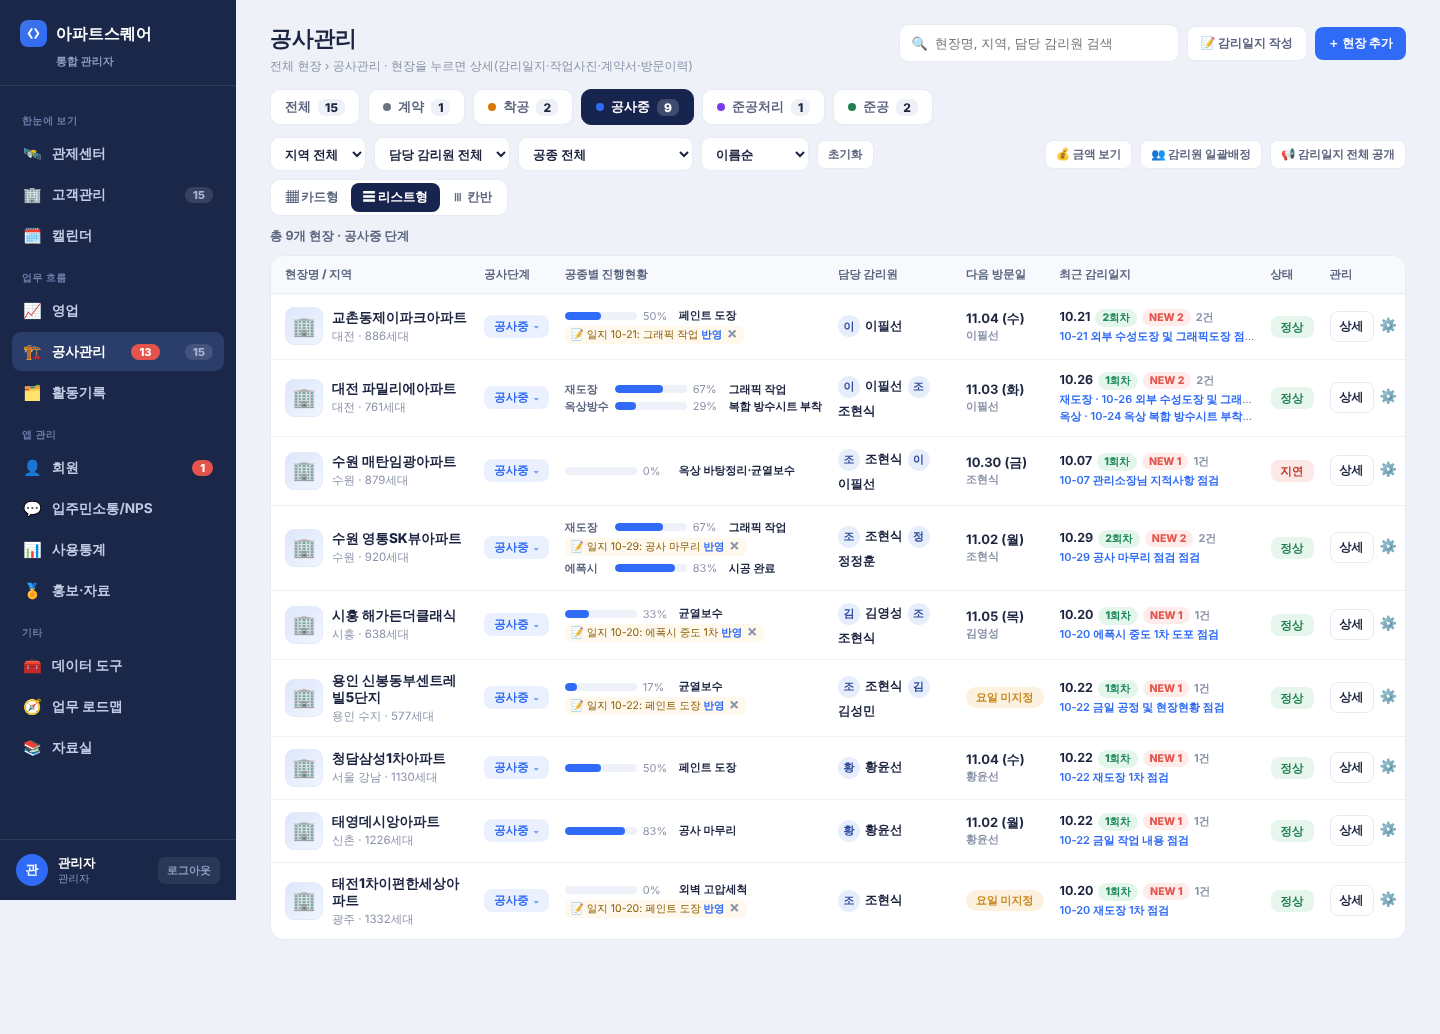
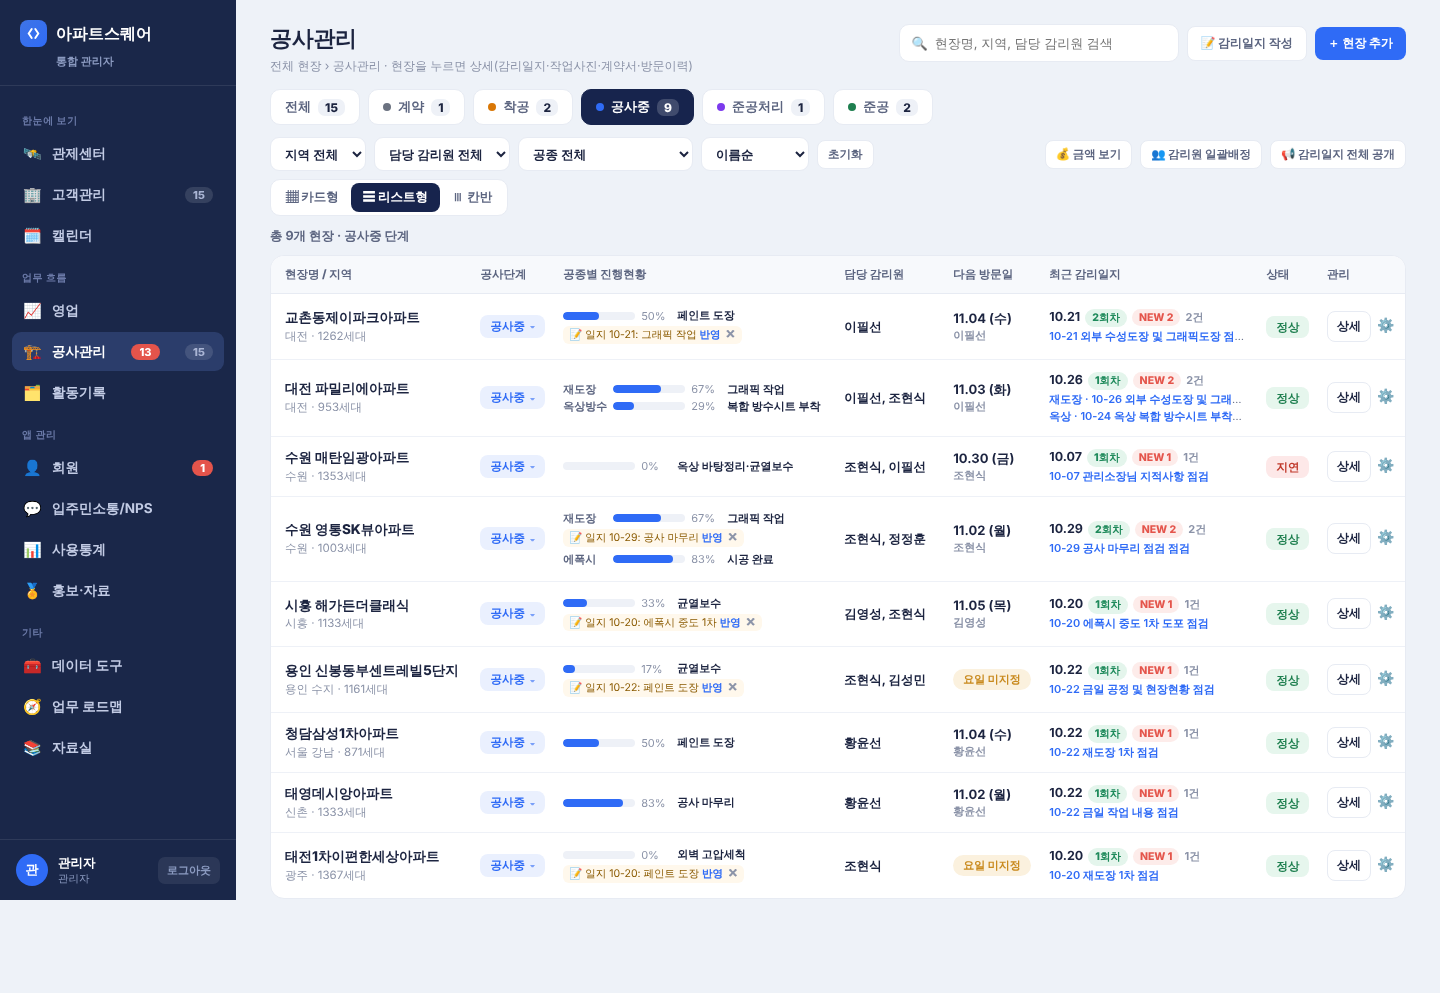
style(console/공사관리): 담당 감리원 이름만 표시, 현장 사진 자리 제거
Claude-Session: https://claude.ai/code/session_01XoqjW9LFmJwsz48PSiTcHw

diff --git a/app/console/index.html b/app/console/index.html
@@ -76,12 +76,12 @@ main{flex:1;min-width:0;padding:24px 34px 70px;max-width:1680px;margin:0 auto}
 .pj-table{min-width:1000px}.pj-table th{background:#f7f9fc;font-size:11.5px;color:var(--mut2);padding:11px 8px;border-bottom:1px solid var(--line);white-space:nowrap}.pj-table td{padding:12px 8px;vertical-align:middle}.pj-table td:first-child,.pj-table th:first-child{padding-left:14px}
 .pj-table .pgrow .bar{width:72px!important}.pj-table .pghint{max-width:200px;white-space:normal;line-height:1.5}
 .pj-table tbody tr{cursor:pointer}.pj-table tbody tr:hover{background:#f6f9ff}
-.pj-site{display:flex;align-items:center;gap:9px;min-width:160px;max-width:215px}
+.pj-site{display:flex;align-items:center;gap:9px;min-width:150px;max-width:230px}
 .pj-thumb{width:38px;height:38px;border-radius:9px;flex:none;display:flex;align-items:center;justify-content:center;font-size:19px;background:linear-gradient(135deg,#dde7fb,#f1f5ff);border:1px solid #e3eaf8}
 .pj-name{font-weight:800;font-size:13.5px;color:var(--ink);line-height:1.3}.pj-name .link{color:var(--ink)}.pj-sub{font-size:11.5px;color:var(--mut);margin-top:2px}
 .pj-stage{display:inline-flex;align-items:center;gap:5px;font-size:11.5px;font-weight:800;padding:4px 10px;border-radius:8px;cursor:pointer;white-space:nowrap}.pj-stage:after{content:'▾';font-size:10px;opacity:.6}
 .pj-step{margin-top:6px}.pj-step .stepbar .sp{height:22px;min-width:26px;font-size:10px;padding:0 5px}
-.pj-aud{display:flex;align-items:center;gap:5px;flex-wrap:wrap;min-width:96px;max-width:150px}.pj-av{width:22px;height:22px;border-radius:50%;background:#e6edfb;color:#2f4c9e;font-size:11px;font-weight:800;display:inline-flex;align-items:center;justify-content:center;flex:none}
+.pj-aud{display:flex;align-items:center;gap:5px;flex-wrap:wrap;min-width:90px;max-width:160px;line-height:1.4}.pj-av{width:22px;height:22px;border-radius:50%;background:#e6edfb;color:#2f4c9e;font-size:11px;font-weight:800;display:inline-flex;align-items:center;justify-content:center;flex:none}
 .pj-aud .nm{font-size:12.5px;font-weight:700;color:var(--ink)}.pj-aud .more{font-size:11px;color:var(--mut)}
 .pj-visit{font-size:13px;font-weight:700;white-space:nowrap}.pj-visit small{display:block;font-size:11px;color:var(--mut);font-weight:600}
 .pj-rep{min-width:150px;max-width:195px}.pj-rep .repsum{max-width:195px}.pj-rep .d{font-size:12.5px;font-weight:700;white-space:nowrap}.pj-rep .d .pill{margin-left:5px;font-size:10.5px;padding:2px 7px}.pj-rep .repsum{margin-top:2px}
@@ -1508,10 +1508,10 @@ function fmtMD(d){ if(!d)return ''; const x=new Date(d+'T00:00:00'); if(isNaN(x)
 /* 상태: 감리 진행(공사중) 단지의 최근 일지 경과일 — 10일 이내 정상 · 21일 이내 주의 · 그 이상/없음 지연 */
 function siteHealth(a){ if(a.status!=='in_progress')return {cls:'na',label:'-',tip:'공사중 단지만 판정'}; const r=lastReportOf(a.id); if(!r)return {cls:'late',label:'일지 없음',tip:'감리일지가 아직 없어요'};
   const d=repDateOf(r); const days=Math.floor((new Date()-new Date(d+'T00:00:00'))/86400000); if(days<=10)return {cls:'ok',label:'정상',tip:`최근 일지 ${days}일 전`}; if(days<=21)return {cls:'warn',label:'주의',tip:`최근 일지 ${days}일 전`}; return {cls:'late',label:'지연',tip:`최근 일지 ${days}일 전`}; }
-function audAvatars(a,max){ const ids=aptAuditors(a); if(!ids.length)return '<span class="pill no">미배정</span>'; const names=ids.map(auditorName).filter(Boolean); max=max||2;
-  return `<div class="pj-aud">${names.slice(0,max).map(n=>`<span class="pj-av">${esc(String(n).slice(0,1))}</span><span class="nm">${esc(n)}</span>`).join('')}${names.length>max?`<span class="more">+${names.length-max}</span>`:''}</div>`; }
+function audAvatars(a,max){ const ids=aptAuditors(a); if(!ids.length)return '<span class="pill no">미배정</span>'; const names=ids.map(auditorName).filter(Boolean); max=max||3;
+  return `<div class="pj-aud" title="${esc(names.join(', '))}"><span class="nm">${esc(names.slice(0,max).join(', '))}</span>${names.length>max?`<span class="more">외 ${names.length-max}</span>`:''}</div>`; }
 function stagePillHtml(a){ const m=stageMeta(stageOf(a)); return `<span class="pj-stage" style="background:${m[3]}1a;color:${m[3]}" title="눌러서 단계 이동" onclick="event.stopPropagation();const n=this.nextElementSibling;n.style.display=n.style.display==='none'?'block':'none'">${esc(m[1])}</span><div class="pj-step" style="display:none" onclick="event.stopPropagation()">${stepBarHtml(a)}</div>`; }
-function thumbHtml(a,big){ const m=stageMeta(stageOf(a)); return `<div class="pj-thumb" style="${a.status==='done'?'filter:grayscale(.6)':''}">🏢</div>`; }
+function thumbHtml(a,big){ return ''; }   // 현장 사진 자리는 쓰지 않음(운영 부담) — 이름·지역만 표시
 function projFilterOpts(){
   const rs=$('pj-region'),as=$('pj-aud'),ms=$('pj-method'); if(!rs||!as||!ms)return;
   const keep=(el,html)=>{ const v=el.value; el.innerHTML=html; if([...el.options].some(o=>o.value===v))el.value=v; };

diff --git a/docs/변경기록.md b/docs/변경기록.md
@@ -33,6 +33,13 @@
 
 ---
 
+## 2026-10-30 · 공사관리 표시 정리 — 담당 감리원 이름만, 사진 자리 제거
+
+- 담당 감리원: 이니셜 아바타(예: "이 이필선") 없이 **이름만** 쉼표로 표시(3명 초과는 '외 N', 마우스 올리면 전체)
+- 리스트·카드의 **현장 사진 자리(건물 아이콘) 제거** — 사진 등록 운영 부담을 두지 않기로
+- 상태(정상·주의·지연) 기준은 그대로: 최근 일지 10일 이내 정상 · 21일 이내 주의 · 그 이상/없음 지연
+- 파일: `app/console/index.html`, 스크린샷 `docs/screenshots/2026-10-30-after/` 갱신
+
 ## 2026-10-30 · 공사관리 화면 디자인 개편 (리스트형·카드형) — 데이터·연동은 그대로
 
 **시안에 맞춰 공사관리 탭의 보이는 구성만 변경. 저장·조회 함수, 단지/일지/단계 연동 버튼은 전부 유지**
